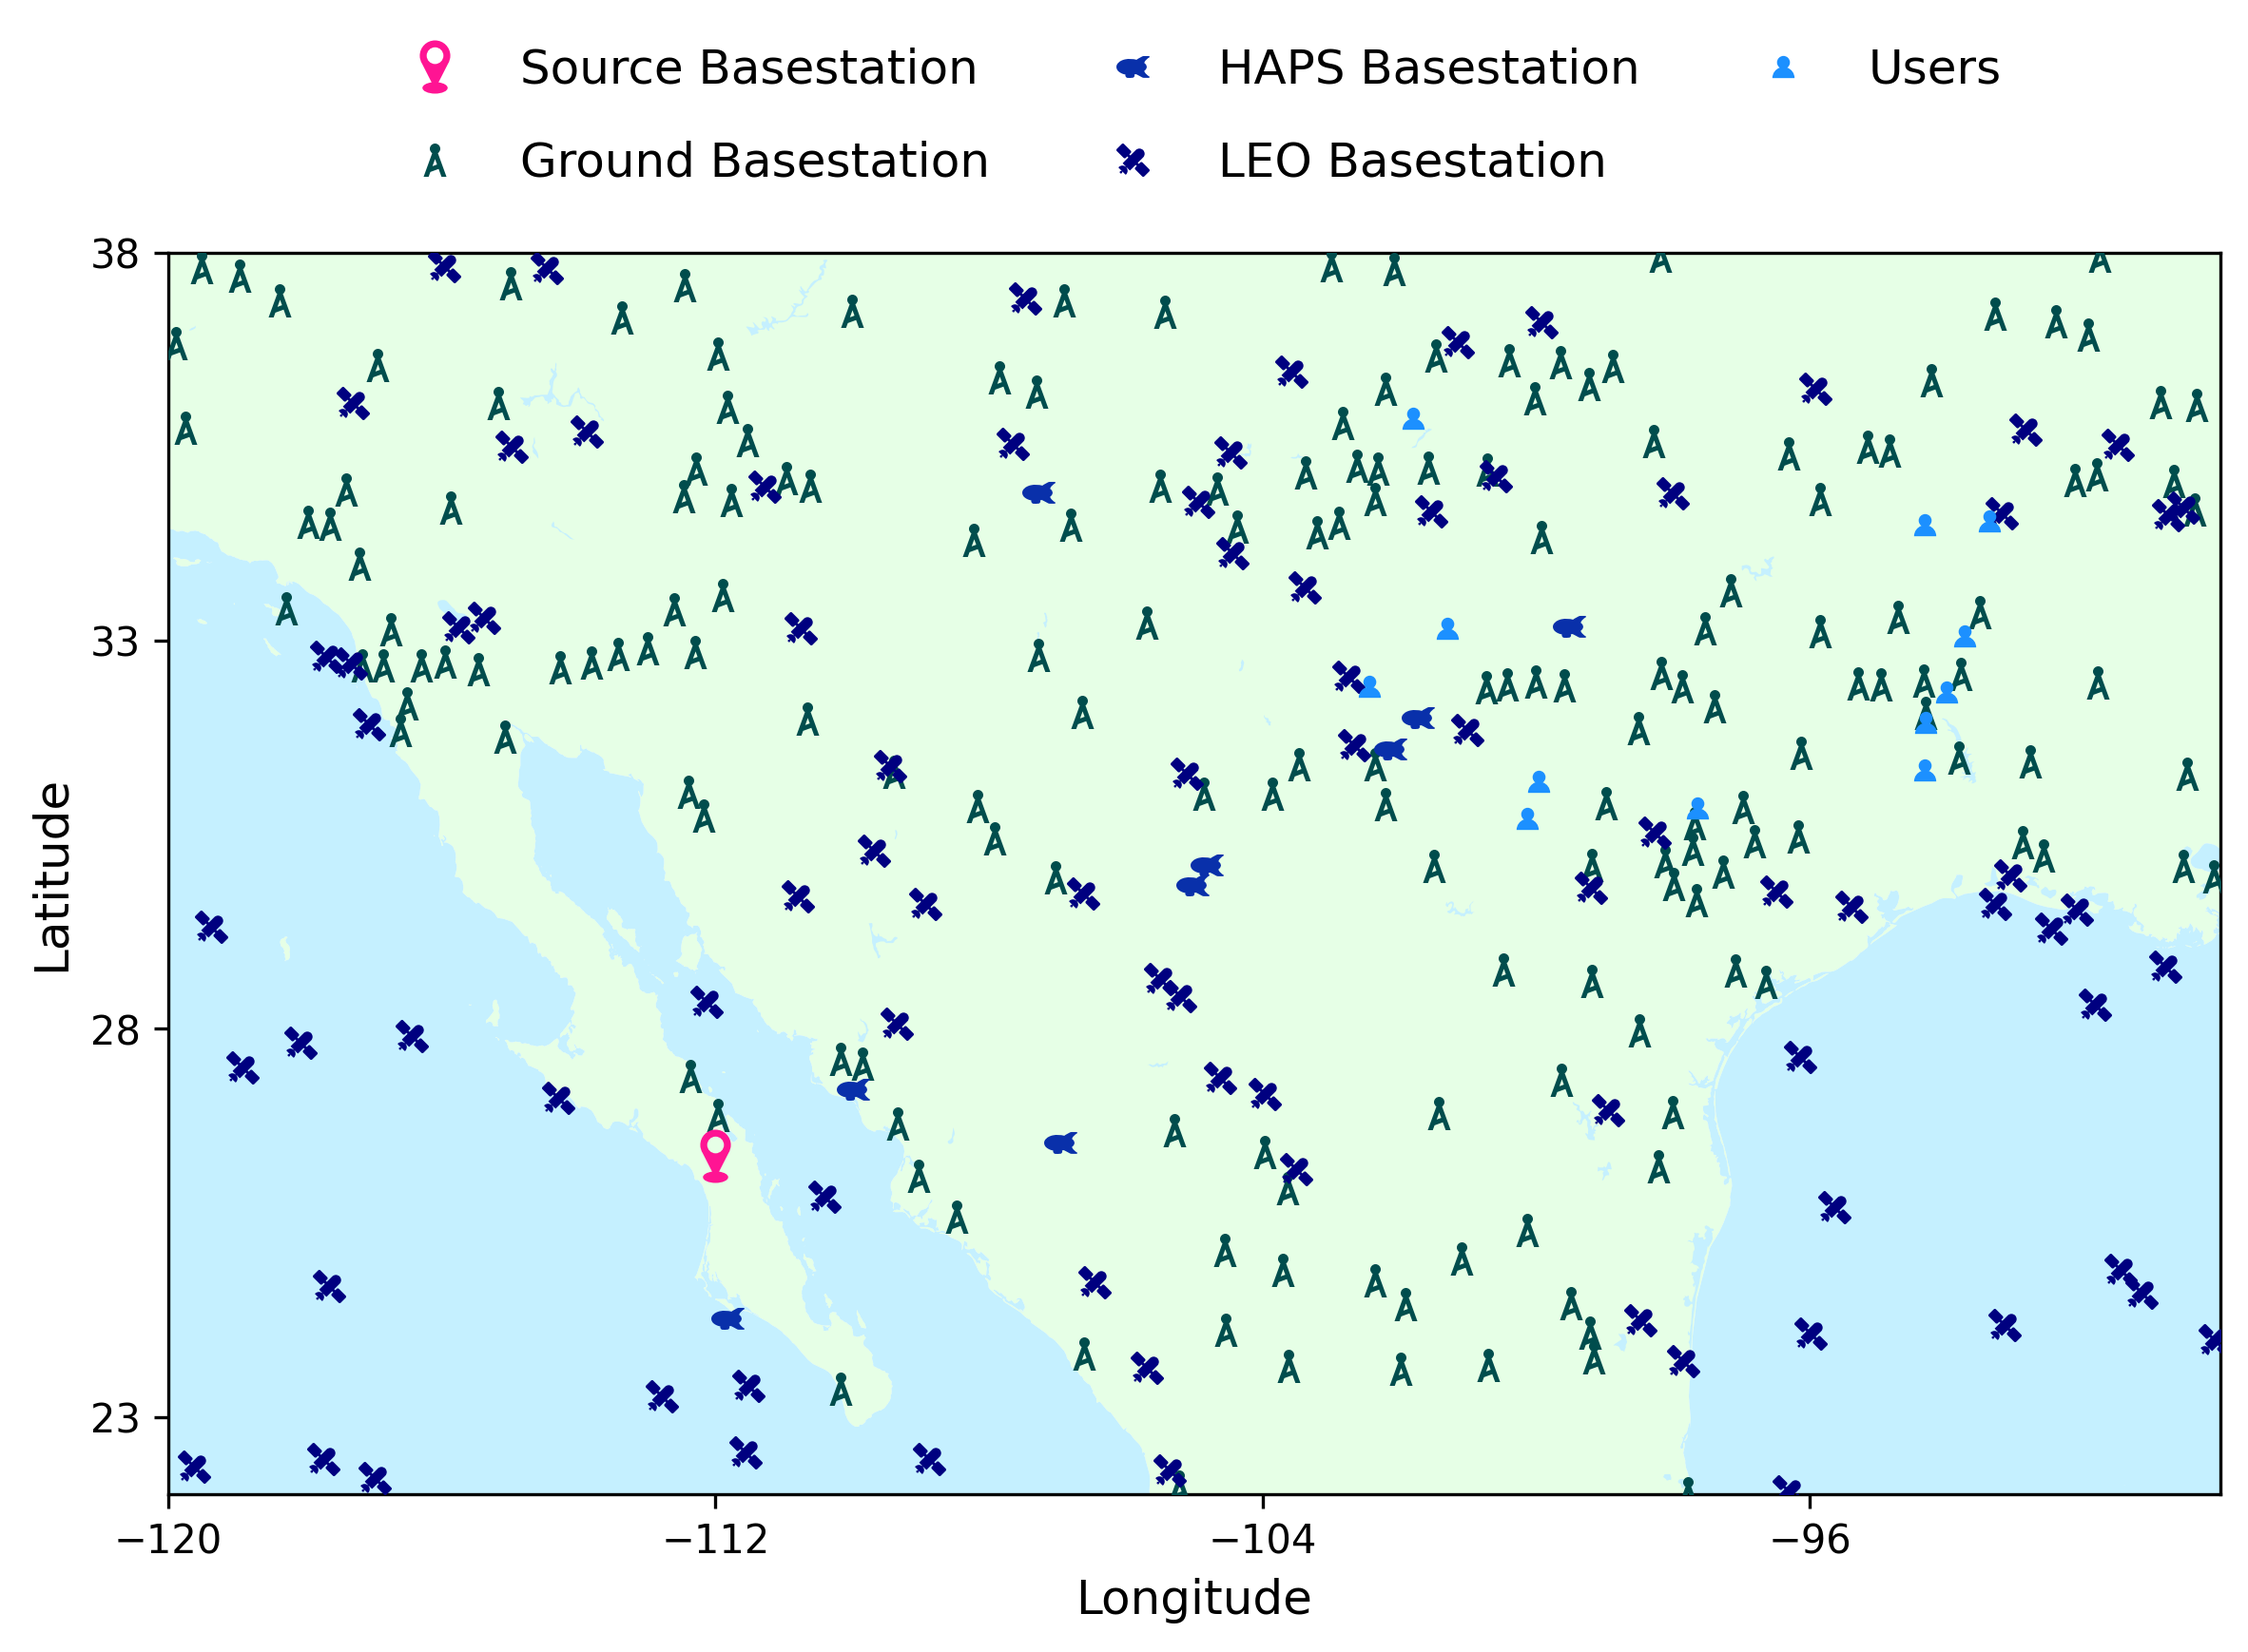
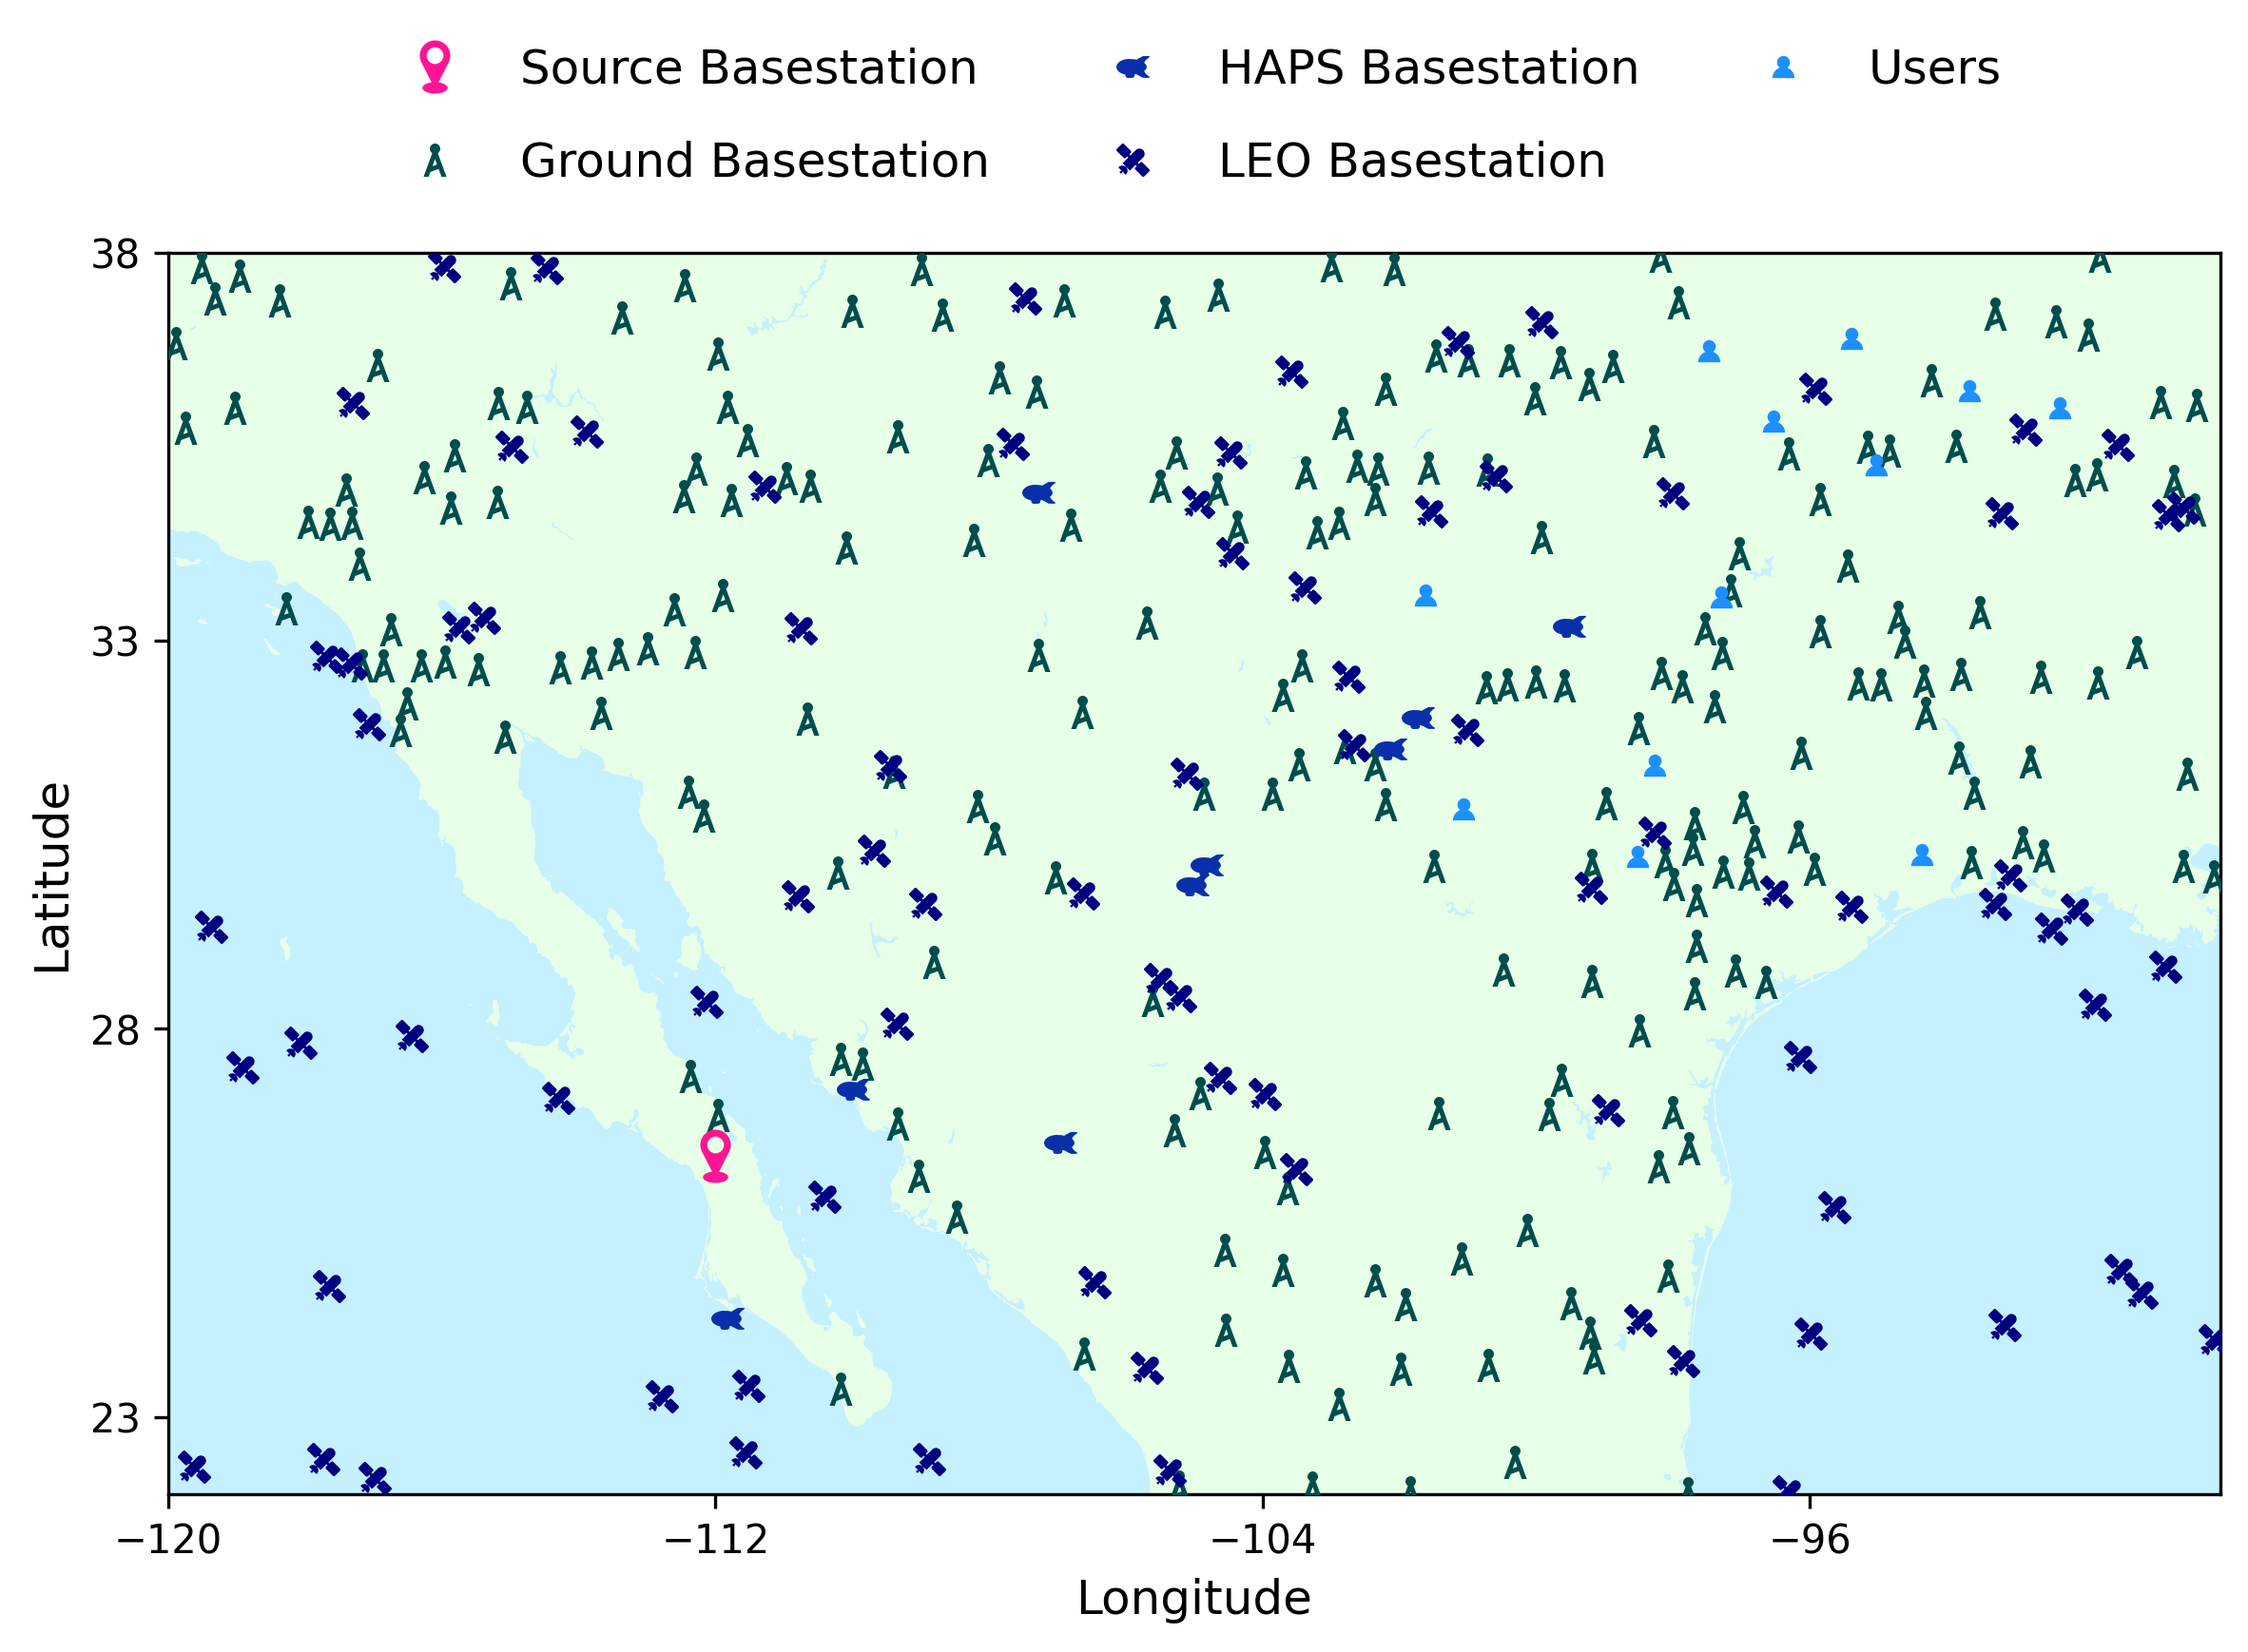
Adjust ground sampling to 25 percent

diff --git a/scripts/render_sagsin_maps.py b/scripts/render_sagsin_maps.py
@@ -117,10 +117,9 @@ def render_western_na(out_dir: Path, base_bounds):
     )
 
     # sample subset for readability
-    ground_coords = random.sample(
-        ground_coords_mex + ground_coords_usa,
-        max(1, int((len(ground_coords_mex) + len(ground_coords_usa)) * 0.2)),
-    )
+    total_ground = ground_coords_mex + ground_coords_usa
+    keep = max(1, int(len(total_ground) * 0.25))
+    ground_coords = random.sample(total_ground, keep)
     maritime_coords = random.sample(
         env.load_maritime_positions(str(map_dir / "maritime_positions.csv")),
         50,
